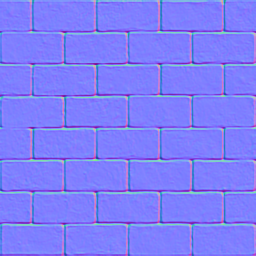
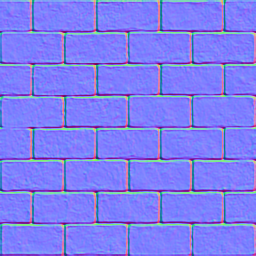
show normal map vs non-normal map

Changed region(s): [[0.0, 0.0, 1.0, 1.0], [0.0938, 0.0, 0.1875, 0.1562], [0.0, 0.125, 0.0625, 0.1562]]

diff --git a/src/index.ts b/src/index.ts
@@ -4,6 +4,7 @@
 import { mat4, vec2, vec3 } from "gl-matrix";
 
 import {
+  BufferBag,
   compiledProgram,
   cacheAttributeLocations,
   cacheUniformLocations,
@@ -28,6 +29,7 @@ const UNIFORM_NAMES = [
   "uNormals",
   "uTime",
   "uLightPos",
+  "uNormalMapOn",
 ];
 
 const ATTRIBUTE_NAMES = [
@@ -50,6 +52,7 @@ const QUAD_POSITIONS = [
 
 const T_TX_MIN = 0.0;
 const T_TX_MAX = 0.5;
+
 // prettier-ignore
 const TEXTURE_COORDS = [
   T_TX_MIN, T_TX_MIN,
@@ -60,15 +63,22 @@ const TEXTURE_COORDS = [
   T_TX_MAX, T_TX_MIN
 ];
 
-const canvas = <HTMLCanvasElement>document.getElementById("game");
-const gl = canvas.getContext("webgl");
+const normalCanvas = <HTMLCanvasElement>(
+  document.getElementById("normal-mapping")
+);
+const normalGl = normalCanvas.getContext("webgl");
+
+const basicCanvas = <HTMLCanvasElement>document.getElementById("basic");
+const basicGl = basicCanvas.getContext("webgl");
 
 const numTiles = 9;
 const numTilesPerRow = 3;
 const zNear = 0.1;
 const zFar = 100.0;
 const camera = { x: 1.5, y: 1.5, z: 3.0 };
-const lightRadius = 1.5;
+const lightRadius = 0.75;
+const lightOffset = 1.5;
+const lightZ = 1;
 const fieldOfView = deg2rad(45);
 
 let vertexPositions = [];
@@ -102,30 +112,75 @@ for (let i = 0; i < vertexPositions.length / 3; i++) {
 
 const textureUrl = `/brick.png`;
 const normalTextureUrl = `/brick-n.png`;
-let texture = loadTexture(gl, textureUrl);
-let normalTexture = loadTexture(gl, normalTextureUrl);
+let normalProgramTexture = loadTexture(normalGl, textureUrl);
+let normalProgramNormalTexture = loadTexture(normalGl, normalTextureUrl);
+let basicProgramTexture = loadTexture(basicGl, textureUrl);
+let basicProgramNormalTexture = loadTexture(basicGl, normalTextureUrl);
 
 const projectionMatrix = mat4.create();
 const modelMatrix = mat4.create();
 const viewMatrix = mat4.create();
 
-const buffers = {
-  positions: gl.createBuffer(),
-  normals: gl.createBuffer(),
-  textureCoords: gl.createBuffer(),
-  tangents: gl.createBuffer(),
-  bitangents: gl.createBuffer(),
+const normalBuffers: BufferBag = {
+  positions: normalGl.createBuffer(),
+  normals: normalGl.createBuffer(),
+  textureCoords: normalGl.createBuffer(),
+  tangents: normalGl.createBuffer(),
+  bitangents: normalGl.createBuffer(),
 };
 
-const programCache: ProgramCache = {
+const basicBuffers: BufferBag = {
+  positions: basicGl.createBuffer(),
+  normals: basicGl.createBuffer(),
+  textureCoords: basicGl.createBuffer(),
+  tangents: basicGl.createBuffer(),
+  bitangents: basicGl.createBuffer(),
+};
+
+const normalProgramCache: ProgramCache = {
   attributes: {},
   uniforms: {},
 };
 
-const tileProgram = compiledProgram(gl, SPRITE_VERT_SHADER, SPRITE_FRAG_SHADER);
+const basicProgramCache: ProgramCache = {
+  attributes: {},
+  uniforms: {},
+};
 
-cacheAttributeLocations(gl, tileProgram, programCache, ATTRIBUTE_NAMES);
-cacheUniformLocations(gl, tileProgram, programCache, UNIFORM_NAMES);
+const normalProgram = compiledProgram(
+  normalGl,
+  SPRITE_VERT_SHADER,
+  SPRITE_FRAG_SHADER
+);
+
+const basicProgram = compiledProgram(
+  basicGl,
+  SPRITE_VERT_SHADER,
+  SPRITE_FRAG_SHADER
+);
+
+cacheAttributeLocations(
+  normalGl,
+  normalProgram,
+  normalProgramCache,
+  ATTRIBUTE_NAMES
+);
+
+cacheUniformLocations(
+  normalGl,
+  normalProgram,
+  normalProgramCache,
+  UNIFORM_NAMES
+);
+
+cacheAttributeLocations(
+  basicGl,
+  basicProgram,
+  basicProgramCache,
+  ATTRIBUTE_NAMES
+);
+
+cacheUniformLocations(basicGl, basicProgram, basicProgramCache, UNIFORM_NAMES);
 
 // https://learnopengl.com/Advanced-Lighting/Normal-Mapping
 function generateTbn() {
@@ -180,23 +235,17 @@ function generateTbn() {
   return { normal, tangent, bitangent };
 }
 
-function render(time) {
-  requestAnimationFrame(render);
-
-  mat4.lookAt(
-    viewMatrix,
-    [camera.x, camera.y, camera.z],
-    [camera.x, camera.y, 0],
-    [0.0, 1.0, 0.0]
-  );
-  mat4.perspective(
-    projectionMatrix,
-    fieldOfView,
-    getAspectRatio(gl.canvas),
-    zNear,
-    zFar
-  );
-  gl.useProgram(tileProgram);
+function renderToGlContext(
+  gl: WebGLRenderingContext,
+  program: WebGLProgram,
+  time: number,
+  programCache: ProgramCache,
+  buffers: BufferBag,
+  texture: WebGLTexture,
+  normalTexture: WebGLTexture,
+  normalMapOn: boolean
+) {
+  gl.useProgram(program);
   gl.clearColor(0.0, 0.0, 0.0, 0.0);
   gl.clearDepth(1.0);
   gl.enable(gl.DEPTH_TEST);
@@ -218,15 +267,16 @@ function render(time) {
   gl.activeTexture(gl.TEXTURE1);
   gl.bindTexture(gl.TEXTURE_2D, normalTexture);
 
+  gl.uniform1i(programCache.uniforms.uNormalMapOn, normalMapOn ? 1.0 : 0.0);
   gl.uniform1i(programCache.uniforms.uSpriteSampler, 0);
   gl.uniform1i(programCache.uniforms.uNormalSampler, 1);
   gl.uniform1f(programCache.uniforms.uTime, time / 1000);
 
   // Make light go in a cirlce
   const lightPos = [
-    1 + lightRadius * Math.cos(time / 1000),
-    1 + lightRadius * Math.sin(time / 1000),
-    1,
+    lightOffset + lightRadius * Math.cos(time / 1000),
+    lightOffset + lightRadius * Math.sin(time / 1000),
+    lightZ,
   ];
 
   gl.uniform3fv(programCache.uniforms.uLightPos, lightPos);
@@ -246,7 +296,47 @@ function render(time) {
     buffers["textureCoords"],
     textureCoords
   );
+
   gl.drawArrays(gl.TRIANGLES, 0, vertexPositions.length / 3);
+}
+
+function render(time) {
+  requestAnimationFrame(render);
+
+  mat4.lookAt(
+    viewMatrix,
+    [camera.x, camera.y, camera.z],
+    [camera.x, camera.y, 0],
+    [0.0, 1.0, 0.0]
+  );
+  mat4.perspective(
+    projectionMatrix,
+    fieldOfView,
+    getAspectRatio(normalGl.canvas),
+    zNear,
+    zFar
+  );
+
+  renderToGlContext(
+    normalGl,
+    normalProgram,
+    time,
+    normalProgramCache,
+    normalBuffers,
+    normalProgramTexture,
+    normalProgramNormalTexture,
+    true
+  );
+  renderToGlContext(
+    basicGl,
+    basicProgram,
+    time,
+    basicProgramCache,
+    basicBuffers,
+    basicProgramTexture,
+    basicProgramNormalTexture,
+    false
+  );
 }
 
 requestAnimationFrame(render);

diff --git a/src/style.css b/src/style.css
@@ -3,16 +3,38 @@
   padding: 0;
   margin: 0;
   border: 0;
-  font-family: "Arial Black", Gadget, sans-serif;
+  font-family: sans-serif;
 }
 
 body {
-  background-color: seagreen;
+  background-color: #8fc99f;
+}
+
+.page-wrapper {
+  display: flex;
+  flex-direction: column;
+  padding: 10px;
+  justify-content: center;
+  align-items: center;
+}
+
+.example-wrapper {
+  display: flex;
+  flex-direction: row;
+  flex-wrap: wrap;
+  justify-content: center;
+}
+
+.canvas-wrapper {
+  display: flex;
+  flex-direction: column;
+  padding: 10px;
+  justify-content: center;
+  text-align: center;
 }
 
 canvas {
-  image-rendering: crisp-edges;
-  width: 400px;
-  height: 400px;
+  width: 250px;
+  height: 250px;
   background-color: rebeccapurple;
 }

diff --git a/index.html b/index.html
@@ -8,7 +8,23 @@
     <link href="./src/style.css" rel="stylesheet" type="text/css" />
   </head>
   <body>
-    <canvas id="game"></canvas>
+    <div class="page-wrapper">
+      <div class="example-wrapper">
+        <div class="canvas-wrapper">
+          <canvas id="normal-mapping"></canvas>
+          With normal mapping
+        </div>
+        <div class="canvas-wrapper">
+          <canvas id="basic"></canvas>
+          Without normal mapping
+        </div>
+      </div>
+      <div>
+        <a href="https://github.com/mtmckenna/webgl-normal-mapping-example"
+          >Code on GitHub</a
+        >
+      </div>
+    </div>
     <script src="./src/index.ts"></script>
   </body>
 </html>

diff --git a/src/helpers/webgl-helpers.ts b/src/helpers/webgl-helpers.ts
@@ -3,6 +3,10 @@ export interface ProgramCache {
   uniforms: { [key: string]: WebGLUniformLocation | null };
 }
 
+export interface BufferBag {
+  [key: string]: WebGLBuffer;
+}
+
 export function compiledProgram(
   gl: WebGLRenderingContext,
   vertexShader: string,
